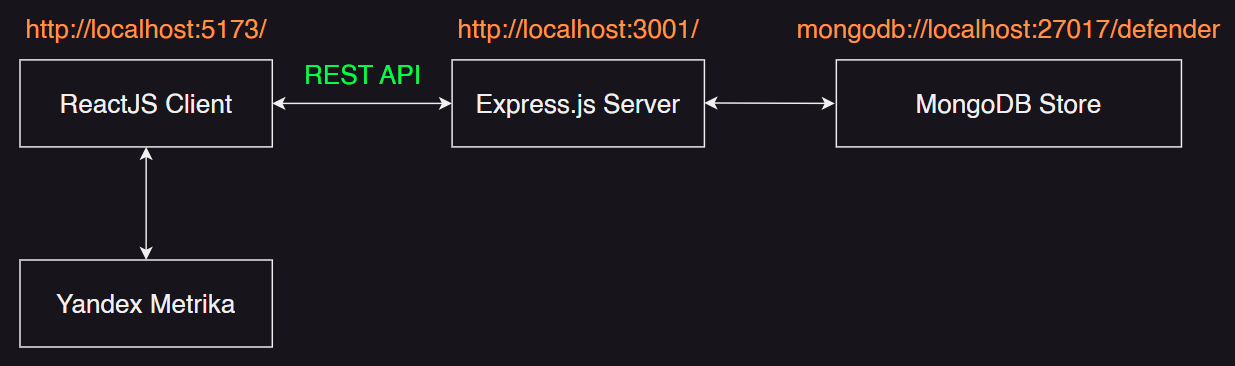
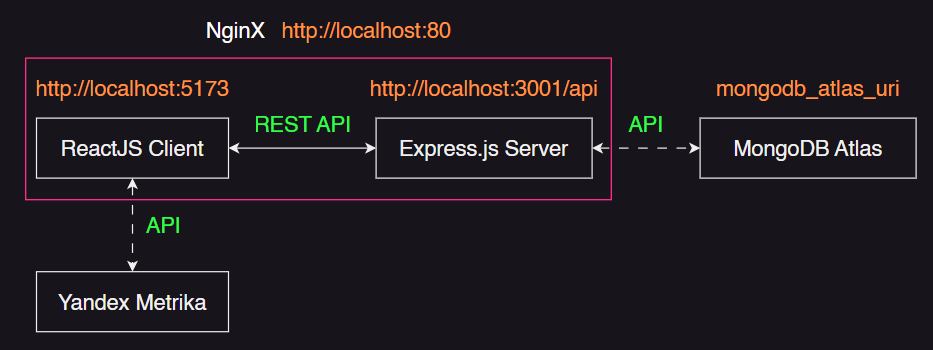
Add docker-compose/nginx

diff --git a/server/index.ts b/server/index.ts
@@ -16,8 +16,8 @@ app.use((err: Error, _req: Request, res: Response, _next: NextFunction) => {
 	res.status(500).send({ message: 'Internal Server Error' });
 });
 
-const PORT: number = process.env.APP_PORT ? Number(process.env.APP_PORT) : 3001; // Автоматически изменяется под порт хостинга
-const HOST: string = process.env.APP_IP ?? '127.0.0.1'; // Автоматически изменяется под IP хостинга
+const PORT: number = 3001;
+const HOST: string = '0.0.0.0';
 
 app.listen(PORT, HOST, () => {
 	console.log(`Express.js server running at http://${HOST}:${PORT}/`);

diff --git a/server/configs/db.ts b/server/configs/db.ts
@@ -1,7 +1,6 @@
 import mongoose from 'mongoose';
 
-const DB_URI: string =
-	process.env.MONGODB_URI ?? 'mongodb://localhost:27017/defender'; // Обновляется автоматически на сервере под MongoDB Atlas URI
+const DB_URI: string = 'mongodb+srv://Denis:00392024@cluster0.kbanvrn.mongodb.net/defender';
 
 const connectDB = async (): Promise<void> => {
 	try {

diff --git a/client/src/shared/api/fetcher.ts b/client/src/shared/api/fetcher.ts
@@ -1,7 +1,6 @@
 import axios, { AxiosInstance } from 'axios';
 
-// const BACKEND_URL: string = 'http://localhost:3001'; // Локальный
-const BACKEND_URL: string = 'https://sports-defender-server.na4u.ru'; // Для хостинга
+const BACKEND_URL: string = '/api';
 
 export const axiosInstance: AxiosInstance = axios.create({
 	baseURL: BACKEND_URL,

diff --git a/README.md b/README.md
@@ -15,10 +15,12 @@
 <br />
 <p><strong>Спортивный Защитник</strong> - использует следующие технологии:</p>
 <ul>
+	<li>Docker Compose</li>
 	<li>Express.js</li>
 	<li>MongoDB</li>
 	<li>Swagger</li>
 	<li>Yandex Metrika</li>
+	<li>Nginx</li>
 	<li>Vite</li>
 	<li>ReactJS + Router</li>
 	<li>TypeScript</li>
@@ -54,11 +56,7 @@
 
 ## Инструкция по запуску приложения
 
-В папке `./client` выполните команды `npm i` и `npm run dev` для запуска клиента.
-
-В папке `./server` выполните команды `npm i` и `npm run start` для запуска сервера.
-
-Также подразумевается наличие _MongoDB_ с базой данных `defender` и коллекциями `faqs`, `documents` и `surveys`. Данные для БД лежат по следующему пути: `./mongodb-data/defender.*.json`.
+Для запуска приложения перейдите в корень проекта и выполните команду `docker-compose up --build`, далее откройте браузер по адресу `http://localhost:80`.
 
 <!-- --------CONTRIBUTING-------- -->
 
